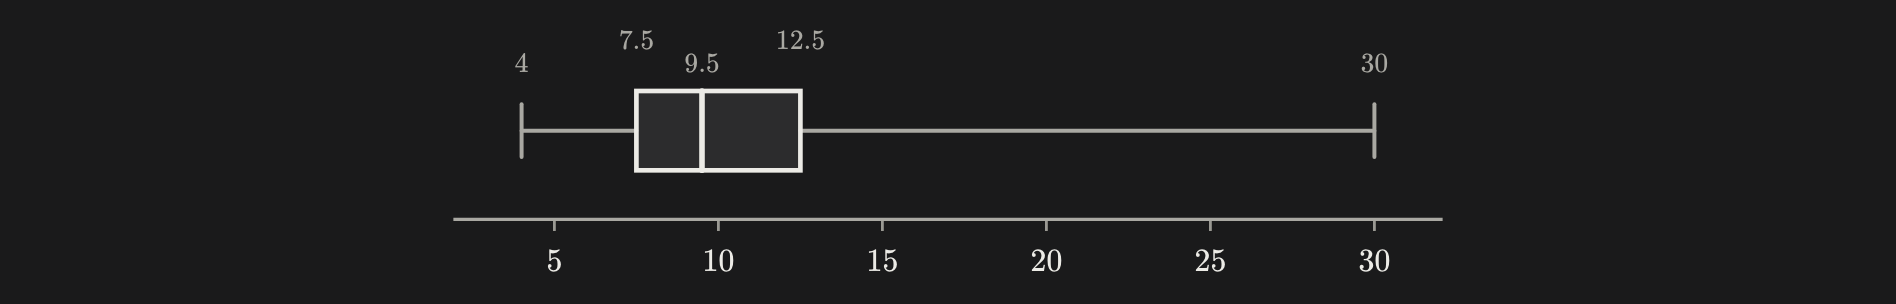
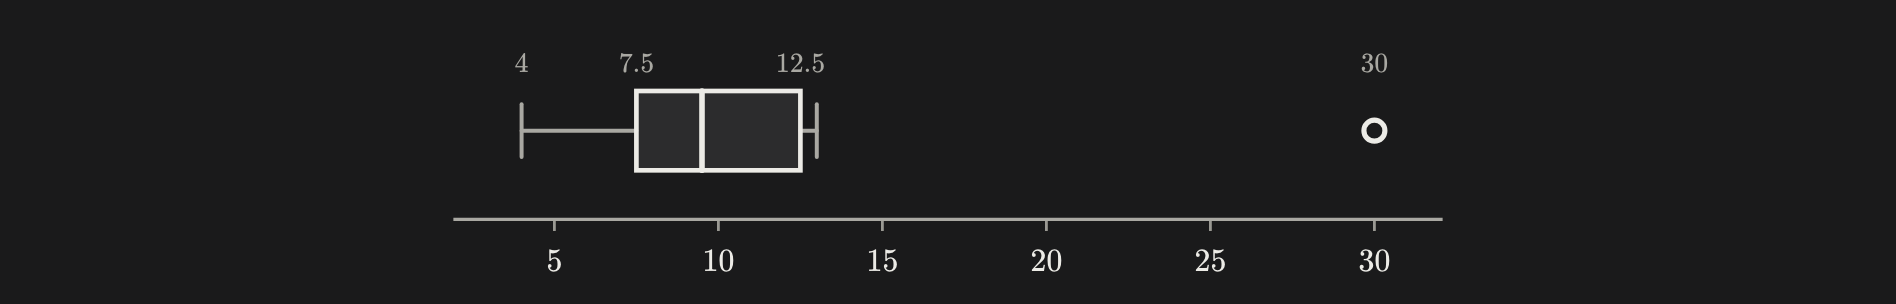
Diagram review fixes: single-rounded 95.4% label, box-plot whiskers and outliers, exponential asymptote, expression-based text alternatives, deduplicated intercepts, 3 dp readouts; crops regenerated

diff --git a/client/src/diagrams/Diagram.jsx b/client/src/diagrams/Diagram.jsx
@@ -99,7 +99,7 @@ export function FunctionGraph({ title = 'Graph of a function', caption = null, x
   const m = functionGraphModel(spec);
   const desc = sentence(
     `Axes: x from ${r3(m.frame.xmin, 2)} to ${r3(m.frame.xmax, 2)}, y from ${r3(m.frame.ymin, 2)} to ${r3(m.frame.ymax, 2)}.`,
-    m.curves.map(c => `${c.label ? `Curve ${c.label.replace(/[\\${}]/g, '')}` : 'A curve'}: y = ${c.expr}.${c.shade ? ` The area between it and the x-axis from x = ${c.shade.from} to x = ${c.shade.to} is shaded.` : ''}`).join(' '),
+    m.curves.map(c => `Curve: y = ${c.expr}.${c.shade ? ` The area between it and the x-axis from x = ${c.shade.from} to x = ${c.shade.to} is shaded.` : ''}`).join(' '),
     m.curves.flatMap(c => [c.yIntercept ? `It crosses the y-axis at ${c.yIntercept.y}.` : '', c.xIntercepts?.length ? `It crosses the x-axis at x = ${c.xIntercepts.map(i => i.x).join(', ')}.` : '']).join(' '),
     m.asymptotes.map(a => `${a.axis === 'x' ? 'Vertical' : 'Horizontal'} asymptote ${a.axis} = ${a.value}.`).join(' ')
   );
@@ -113,7 +113,7 @@ export function FunctionGraph({ title = 'Graph of a function', caption = null, x
       ))}
       {m.curves.map(c => c.shade && c.shade.path.length > 0 && <path key={`sh${c.id}`} className="dg-shade" d={`${poly(c.shade.path)} Z`} />)}
       {m.curves.map(c => c.segments.map((seg, k) => <path key={`${c.id}${k}`} className={`dg-curve is-${c.tone}`} d={poly(seg)} />))}
-      {!hideIntercepts && m.curves.flatMap(c => [c.yIntercept, ...(c.xIntercepts || [])].filter(Boolean).map((p, i) => <g key={`ic${c.id}${i}`}><circle className="dg-dot" cx={p.px[0]} cy={p.px[1]} r="4" /><PTex tex={`(${p.x},\\,${p.y})`} cands={pointCands(p.px)} obstacles={fnObstacles} w={80} /></g>))}
+      {!hideIntercepts && m.curves.flatMap(c => [c.yIntercept, ...(c.xIntercepts || [])].filter(Boolean).filter((p, i, all) => all.findIndex(q => q.x === p.x && q.y === p.y) === i).map((p, i) => <g key={`ic${c.id}${i}`}><circle className="dg-dot" cx={p.px[0]} cy={p.px[1]} r="4" /><PTex tex={`(${p.x},\\,${p.y})`} cands={pointCands(p.px)} obstacles={fnObstacles} w={80} /></g>))}
       {m.points.map((p, i) => <g key={`pt${i}`}><circle className="dg-dot is-key" cx={p.px[0]} cy={p.px[1]} r="4.5" />{p.label && <PTex tex={p.label} cands={pointCands(p.px)} obstacles={fnObstacles} w={90} />}</g>)}
       {m.curves.map(c => c.label && (() => { const ex = Math.min(m.frame.right - 40, (c.segments.at(-1)?.at(-1)?.[0] ?? m.frame.right) - 4); const ey = c.segments.at(-1)?.at(-1)?.[1] ?? m.frame.top; return <PTex key={`lb${c.id}`} tex={c.label} cands={[[ex, ey - 12, 'end'], [ex - 14, ey + 16, 'end'], [ex - 70, ey - 18, 'end'], [m.frame.right - 6, m.frame.top + 12, 'end'], [m.frame.left + 8, m.frame.top + 12, 'start'], ...[30, 50, 70, 96, 130, 170].flatMap(d => [[ex, ey - 12 + d, 'end'], [ex - d, ey - 12, 'end'], [ex - d, ey + 16, 'end'], [m.frame.right - 6, m.frame.top + 12 + d, 'end'], [m.frame.left + 8, m.frame.top + 12 + d, 'start'], [m.frame.left + 8, m.frame.bottom - 14 - d, 'start']])]} obstacles={fnObstacles} w={110} className="dg-curve-label" />; })())}
     </Figure>
@@ -322,7 +322,7 @@ export function Histogram({ title = 'A histogram', caption = null, xLabel = null
 export function BoxPlot({ title = 'A box plot', caption = null, ...spec }) {
   const m = boxPlotModel(spec);
   const s = m.summary; const px = m.px; const y = m.y; const h = m.h;
-  const desc = `A box plot: minimum ${s.min}, lower quartile ${s.q1}, median ${s.median}, upper quartile ${s.q3}, maximum ${s.max}; range ${s.range}, interquartile range ${s.iqr}.`;
+  const desc = `A box plot: minimum ${s.min}, lower quartile ${s.q1}, median ${s.median}, upper quartile ${s.q3}, maximum ${s.max}; range ${s.range}, interquartile range ${s.iqr}.${m.outliers.length ? ` The whiskers end at ${m.whisker.lo} and ${m.whisker.hi}; ${m.outliers.join(' and ')} ${m.outliers.length > 1 ? 'are outliers' : 'is an outlier'}, beyond the fences ${m.fences.lo} and ${m.fences.hi}.` : ''}`;
   return (
     <Figure frame={m.frame} width={m.frame.width} height={m.frame.height} title={title} description={desc} caption={caption}>
       <g className="dg-axes">{m.ticks.map(t => <g key={t.value}><line className="dg-tick" x1={t.px} x2={t.px} y1={m.frame.bottom} y2={m.frame.bottom + 5} /><Tex x={t.px} y={m.frame.bottom + 18} tex={String(t.value)} w={40} h={20} /></g>)}<line className="dg-axis" x1={m.frame.left} x2={m.frame.right} y1={m.frame.bottom} y2={m.frame.bottom} /></g>
@@ -330,7 +330,8 @@ export function BoxPlot({ title = 'A box plot', caption = null, ...spec }) {
       <line className="dg-curve is-secondary" x1={px.min} y1={y - h / 3} x2={px.min} y2={y + h / 3} /><line className="dg-curve is-secondary" x1={px.max} y1={y - h / 3} x2={px.max} y2={y + h / 3} />
       <rect className="dg-box" x={px.q1} y={y - h / 2} width={px.q3 - px.q1} height={h} />
       <line className="dg-curve is-primary" x1={px.median} y1={y - h / 2} x2={px.median} y2={y + h / 2} />
-      {[['min', s.min], ['q1', s.q1], ['median', s.median], ['q3', s.q3], ['max', s.max]].map(([k, v], i) => <Tex key={k} x={px[k]} y={y - h / 2 - (i % 2 ? 22 : 12)} tex={String(v)} w={46} h={20} className="dg-small" />)}
+      {[['min', m.whisker.lo], ['q1', s.q1], ['median', s.median], ['q3', s.q3], ['max', m.whisker.hi]].map(([k, v]) => <PTex small key={k} tex={String(v)} cands={[12, 30, 48].map(d => [px[k], y - h / 2 - d])} w={46} h={20} className="dg-small" />)}
+      {m.outlierPx.map(o => <g key={`o${o.value}`}><circle className="dg-open" cx={o.px} cy={y} r="4.5" /><PTex small tex={String(o.value)} cands={[12, 30, 48].map(d => [o.px, y - h / 2 - d])} w={46} h={20} className="dg-small" /></g>)}
     </Figure>
   );
 }
@@ -344,7 +345,7 @@ export function NormalCurve({ title = 'The normal distribution', caption = null,
       {m.shade.length > 0 && <path className="dg-shade" d={`${poly(m.shade)} Z`} />}
       <path className="dg-curve is-primary" d={poly(m.curve)} fill="none" />
       {m.xTicks.map(t => <g key={t.z}><line className="dg-tick" x1={t.px} x2={t.px} y1={f.sy(0)} y2={f.sy(0) + 5} /><Tex x={t.px} y={f.sy(0) + 16} tex={m.sigma === 1 && m.mu === 0 ? String(t.z) : String(t.x)} w={44} h={20} /><Tex x={t.px} y={f.sy(0) + 31} tex={`z=${t.z}`} w={44} h={16} className="dg-small" /></g>)}
-      <Tex x={(f.sx(m.xa) + f.sx(m.xb)) / 2} y={f.sy(0) - 26} tex={`${r3(m.area * 100, 1)}\\%`} w={80} className="dg-area" />
+      <Tex x={(f.sx(m.xa) + f.sx(m.xb)) / 2} y={f.sy(0) - 26} tex={`${r3(m.areaExact * 100, 1)}\\%`} w={80} className="dg-area" />
     </Figure>
   );
 }

diff --git a/client/src/diagrams/geometry.js b/client/src/diagrams/geometry.js
@@ -453,7 +453,12 @@ export function boxPlotModel({ data = null, summary = null, width = 480, height 
   const span = f.max - f.min || 1;
   const frame = makeFrame({ xmin: f.min - span * pad, xmax: f.max + span * pad, ymin: 0, ymax: 1, width, height, pad: { l: 28, r: 28, t: 18, b: 36 } });
   const yMid = frame.sy(0.5); const h = 34;
-  return { frame, summary: f, y: yMid, h, px: { min: frame.sx(f.min), q1: frame.sx(f.q1), median: frame.sx(f.median), q3: frame.sx(f.q3), max: frame.sx(f.max) }, ticks: niceTicks(frame.xmin, frame.xmax, 8).map(v => ({ value: v, px: frame.sx(v) })) };
+  // Whiskers end at the lowest and highest values inside the fences (Q1 - 1.5 IQR, Q3 + 1.5 IQR); values beyond are outliers.
+  const fenceLo = f.q1 - 1.5 * f.iqr; const fenceHi = f.q3 + 1.5 * f.iqr;
+  const inside = data ? data.filter(v => v >= fenceLo && v <= fenceHi) : [];
+  const whisker = data ? { lo: Math.min(...inside), hi: Math.max(...inside) } : { lo: f.min, hi: f.max };
+  const outliers = data ? [...data].filter(v => v < fenceLo || v > fenceHi).sort((a, b) => a - b) : [];
+  return { frame, summary: f, whisker, outliers, fences: { lo: r3(fenceLo, 6), hi: r3(fenceHi, 6) }, y: yMid, h, px: { min: frame.sx(whisker.lo), q1: frame.sx(f.q1), median: frame.sx(f.median), q3: frame.sx(f.q3), max: frame.sx(whisker.hi) }, outlierPx: outliers.map(v => ({ value: v, px: frame.sx(v) })), ticks: niceTicks(frame.xmin, frame.xmax, 8).map(v => ({ value: v, px: frame.sx(v) })) };
 }
 /** The error function (Abramowitz–Stegun 7.1.26 refined by a series; accurate to ~1e-9 over the range used here). */
 export function erf(x) {
@@ -481,7 +486,7 @@ export function normalCurveModel({ mu = 0, sigma = 1, from = -1, to = 1, mode = 
   for (let i = 0; i <= 80; i++) { const x = lo + ((hi - lo) * i) / 80; shade.push([frame.sx(x), frame.sy(normalPdf(x, mu, sigma))]); }
   const area = normalCdf(Math.max(xa, xb), mu, sigma) - normalCdf(Math.min(xa, xb), mu, sigma);
   const xTicks = [-3, -2, -1, 0, 1, 2, 3].map(k => ({ z: k, x: r3(mu + k * sigma, 6), px: frame.sx(mu + k * sigma) }));
-  return { frame, mu, sigma, za: r3(Math.min(za, zb), 6), zb: r3(Math.max(za, zb), 6), xa: r3(Math.min(xa, xb), 6), xb: r3(Math.max(xa, xb), 6), area: r3(area, 6), curve, shade: shade.length ? [...shade, [frame.sx(hi), frame.sy(0)], [frame.sx(lo), frame.sy(0)]] : [], xTicks };
+  return { frame, mu, sigma, za: r3(Math.min(za, zb), 6), zb: r3(Math.max(za, zb), 6), xa: r3(Math.min(xa, xb), 6), xb: r3(Math.max(xa, xb), 6), area: r3(area, 6), areaExact: area, curve, shade: shade.length ? [...shade, [frame.sx(hi), frame.sy(0)], [frame.sx(lo), frame.sy(0)]] : [], xTicks };
 }
 
 // ── Vectors ──────────────────────────────────────────────────────────────────

diff --git a/client/src/diagrams/Interactive.jsx b/client/src/diagrams/Interactive.jsx
@@ -84,7 +84,8 @@ export function TransformSliders({ base = 'quadratic', title = null, initial = {
         <div className="dgi-buttons"><button type="button" onClick={reset}>Reset</button></div>
       </>}>
       <FunctionGraph xmin={B.xmin} xmax={B.xmax} ymin={B.ymin} ymax={B.ymax} hideIntercepts title={base === 'linear' ? 'The line y = mx + c' : `Graph of y = ${B.name.replace(/\\/g, '')} and its transformation`}
-        curves={[{ expr: B.expr, tone: 'secondary', id: 'base' }, { expr, label: tex, tone: 'primary', id: 'moved' }]} />
+        curves={[{ expr: B.expr, tone: 'secondary', id: 'base' }, { expr, label: tex, tone: 'primary', id: 'moved' }]}
+        asymptotes={base === 'exponential' ? [{ y: k, label: `y=${k}` }] : []} />
     </Shell>
   );
 }
@@ -110,7 +111,7 @@ export function UnitCircleDrag({ initial = 30, title = 'Drag the point around th
     else if (e.key === 'Home') { e.preventDefault(); set(0); }
     else if (e.key === 'End') { e.preventDefault(); set(359); }
   };
-  const readout = `$\\theta=${p.deg}^{\\circ}$: $\\cos\\theta=${p.cos}$, $\\sin\\theta=${p.sin}$, ${p.tan === null ? '$\\tan\\theta$ is undefined' : `$\\tan\\theta=${p.tan}$`}. ${p.quadrant ? `Quadrant ${p.quadrant}; reference angle ${p.reference}°.` : 'On an axis.'}`;
+  const readout = `$\\theta=${p.deg}^{\\circ}$: $\\cos\\theta=${r3(p.cos, 3)}$, $\\sin\\theta=${r3(p.sin, 3)}$, ${p.tan === null ? '$\\tan\\theta$ is undefined' : `$\\tan\\theta=${r3(p.tan, 3)}$`}. ${p.quadrant ? `Quadrant ${p.quadrant}; reference angle ${p.reference}°.` : 'On an axis.'}`;
   return (
     <Shell title={title} readout={readout} className="dg-square"
       controls={<>
@@ -170,7 +171,7 @@ export function NormalAreaByZ({ initial = [-1, 1], title = 'Shade the area betwe
   const a = Math.min(lo, hi); const bz = Math.max(lo, hi);
   const m = normalCurveModel({ from: a, to: bz, mode: 'z' });
   return (
-    <Shell title={title} readout={`$P(${a}\\le Z\\le ${bz})=${m.area}$, which is ${r3(m.area * 100, 2)}% of the distribution. About 68%, 95% and 99.7% lie within 1, 2 and 3 standard deviations of the mean.`}
+    <Shell title={title} readout={`$P(${a}\\le Z\\le ${bz})=${m.area}$, which is ${r3(m.areaExact * 100, 2)}% of the distribution. About 68%, 95% and 99.7% lie within 1, 2 and 3 standard deviations of the mean.`}
       controls={<>
         <Slider label="Lower z" min={-3.5} max={3.5} step={0.1} value={lo} onChange={setLo} format={v => `z = ${r3(v, 1)}`} />
         <Slider label="Upper z" min={-3.5} max={3.5} step={0.1} value={hi} onChange={setHi} format={v => `z = ${r3(v, 1)}`} />

diff --git a/client/src/notes/nsw/notes-nsw-stage4-premium.js b/client/src/notes/nsw/notes-nsw-stage4-premium.js
@@ -34,7 +34,7 @@ export default {
       'Money is given to two decimal places with the dollar sign, for example $\\$59.50$.'
     ],
     diagrams: [
-      { title: 'One value, three names', spec: { kind: 'numberLine', min: 0, max: 1, points: [{ value: 0.25, label: '\\dfrac{1}{4}' }, { value: 0.5, label: '\\dfrac{1}{2}' }, { value: 0.75, label: '\\dfrac{3}{4}' }] }, note: 'Each mark is a fraction, a decimal and a percentage at once: $\\tfrac{3}{4}=0.75=75\\%$.' }
+      { title: 'One value, three names', spec: { kind: 'numberLine', min: 0, max: 1, points: [{ value: 0.25, label: '\\dfrac{1}{4}=25\\%' }, { value: 0.5, label: '\\dfrac{1}{2}=50\\%' }, { value: 0.75, label: '\\dfrac{3}{4}=75\\%' }] }, note: 'Each mark is a fraction, a decimal and a percentage at once: $\\tfrac{3}{4}=0.75=75\\%$.' }
     ],
     working: [
       '\\begin{aligned}\\text{Sale price}&=85\\times(1-0.30)\\\\&=85\\times0.70\\\\&=59.50\\end{aligned}',
@@ -72,7 +72,7 @@ export default {
       'A negative value is substituted inside brackets, so $a^2$ at $a=-4$ is $(-4)^2=16$.'
     ],
     diagrams: [
-      { title: 'An expression as a graph', spec: { kind: 'function', xmin: -6, xmax: 6, ymin: -4, ymax: 40, curves: [{ expr: 'x^2-3*x', intercepts: true, label: 'y=x^2-3x' }] }, note: 'Reading the curve at $x=-4$ gives $y=28$, the value of $a^2-3a$ when $a=-4$.' }
+      { title: 'An expression as a graph', spec: { kind: 'function', xmin: -6, xmax: 6, ymin: -4, ymax: 40, curves: [{ expr: 'x^2-3*x', intercepts: true, label: 'y=x^2-3x' }], points: [{ x: -4, y: 28, label: '(-4,\\,28)' }] }, note: 'Reading the curve at $x=-4$ gives $y=28$, the value of $a^2-3a$ when $a=-4$.' }
     ],
     working: [
       '\\begin{aligned}3(x+2)+2(x-4)&=3x+6+2x-8\\\\&=5x-2\\end{aligned}',

diff --git a/client/src/notes/nsw/notes-nsw-stage6-advanced.js b/client/src/notes/nsw/notes-nsw-stage6-advanced.js
@@ -486,8 +486,8 @@ export default {
       'The conclusion about an outlier is stated against the fence it crosses.'
     ],
     diagrams: [
-      { title: 'Two counters, no replacement', spec: { kind: 'tree', branches: [{ label: 'R', p: [2, 5], children: [{ label: 'R', p: [1, 3] }, { label: 'B', p: [2, 3] }] }, { label: 'B', p: [3, 5], children: [{ label: 'R', p: [4, 9] }, { label: 'B', p: [5, 9] }] }] }, note: 'The path $RR$ has probability $\\tfrac{2}{5}\\times\\tfrac{1}{3}=\\tfrac{2}{15}$. The paths $RB$ and $BR$ add to $\\tfrac{8}{15}$.' },
-      { title: 'The data set as a box plot', spec: { kind: 'boxPlot', data: [4, 7, 8, 9, 10, 12, 13, 30] }, note: 'The median is $9.5$, the quartiles are $7.5$ and $12.5$, and $30$ lies beyond the upper fence of $20$.' }
+      { title: 'Two counters from a bag of 4 red and 6 blue, no replacement', spec: { kind: 'tree', branches: [{ label: 'R', p: [2, 5], children: [{ label: 'R', p: [1, 3] }, { label: 'B', p: [2, 3] }] }, { label: 'B', p: [3, 5], children: [{ label: 'R', p: [4, 9] }, { label: 'B', p: [5, 9] }] }] }, note: 'The path $RR$ has probability $\\tfrac{2}{5}\\times\\tfrac{1}{3}=\\tfrac{2}{15}$. The paths $RB$ and $BR$ add to $\\tfrac{8}{15}$.' },
+      { title: 'The data set as a box plot', spec: { kind: 'boxPlot', data: [4, 7, 8, 9, 10, 12, 13, 30] }, note: 'The median is $9.5$, the quartiles are $7.5$ and $12.5$, and $30$ lies beyond the upper fence of $20$, so the whisker ends at $13$ and $30$ is plotted separately as an outlier.' }
     ],
     check: [
       { question: '$A$ and $B$ are independent with $P(A)=0.3$ and $P(B)=0.5$. Find $P(A\\cup B)$.', answer: '$0.65$', verify: { kind: 'value', expr: '0.3+0.5-0.3*0.5', answer: '0.65' } },

diff --git a/client/src/notes/nsw/notes-nsw-stage6-standard-b.js b/client/src/notes/nsw/notes-nsw-stage6-standard-b.js
@@ -136,7 +136,7 @@ export default {
     ],
     diagrams: [
       { title: '$\\$8000$ at $6\\%$ p.a. compounded monthly', spec: { kind: 'compound', principal: 8000, rate: 0.06, years: 3, perYear: 12 }, note: 'The solid curve ends at $\\$9573.44$ after $3$ years. The dashed line is simple interest, which ends lower at $\\$9440.00$.' },
-      { title: 'Explore rate, time and compounding', spec: { kind: 'compoundExplorer', principal: 8000, initialRate: 6, initialYears: 3 } }
+      { title: 'Explore rate, time and compounding', spec: { kind: 'compoundExplorer', principal: 8000, initialRate: 6, initialYears: 3  }, note: 'It opens at yearly compounding. Choose monthly to see the \\$9573.44 of the example above.' }
     ],
     check: [
       { question: 'Find the value of $\\$5000$ at $4\\%$ p.a. compounded yearly for $2$ years.', answer: '$\\$5408.00$', verify: { kind: 'value', expr: '5000*1.04^2', answer: '5408' } },

diff --git a/client/src/notes/nsw/notes-nsw-stage6-standard-a.js b/client/src/notes/nsw/notes-nsw-stage6-standard-a.js
@@ -486,7 +486,7 @@ export default {
       'A comparison uses a measure of centre and a measure of spread, named, and is written in the context of the question.'
     ],
     diagrams: [
-      { title: 'Box plot of the data', spec: { kind: 'boxPlot', data: [3, 5, 6, 7, 8, 8, 9, 10, 12, 13, 14, 25] }, note: 'The five numbers are $3$, $6.5$, $8.5$, $12.5$ and $25$. This plot draws the whisker to the maximum; by the fence test above, $25$ is an outlier.' }
+      { title: 'Box plot of the data', spec: { kind: 'boxPlot', data: [3, 5, 6, 7, 8, 8, 9, 10, 12, 13, 14, 25] }, note: 'The five-number summary is $3$, $6.5$, $8.5$, $12.5$ and $25$. The whisker ends at $14$, the last value inside the fence of $21.5$; $25$ is plotted separately as an outlier.' }
     ],
     check: [
       { question: 'Find the mean of $4,8,9,15$.', answer: '$9$', verify: { kind: 'value', expr: '(4+8+9+15)/4', answer: '9' } },
